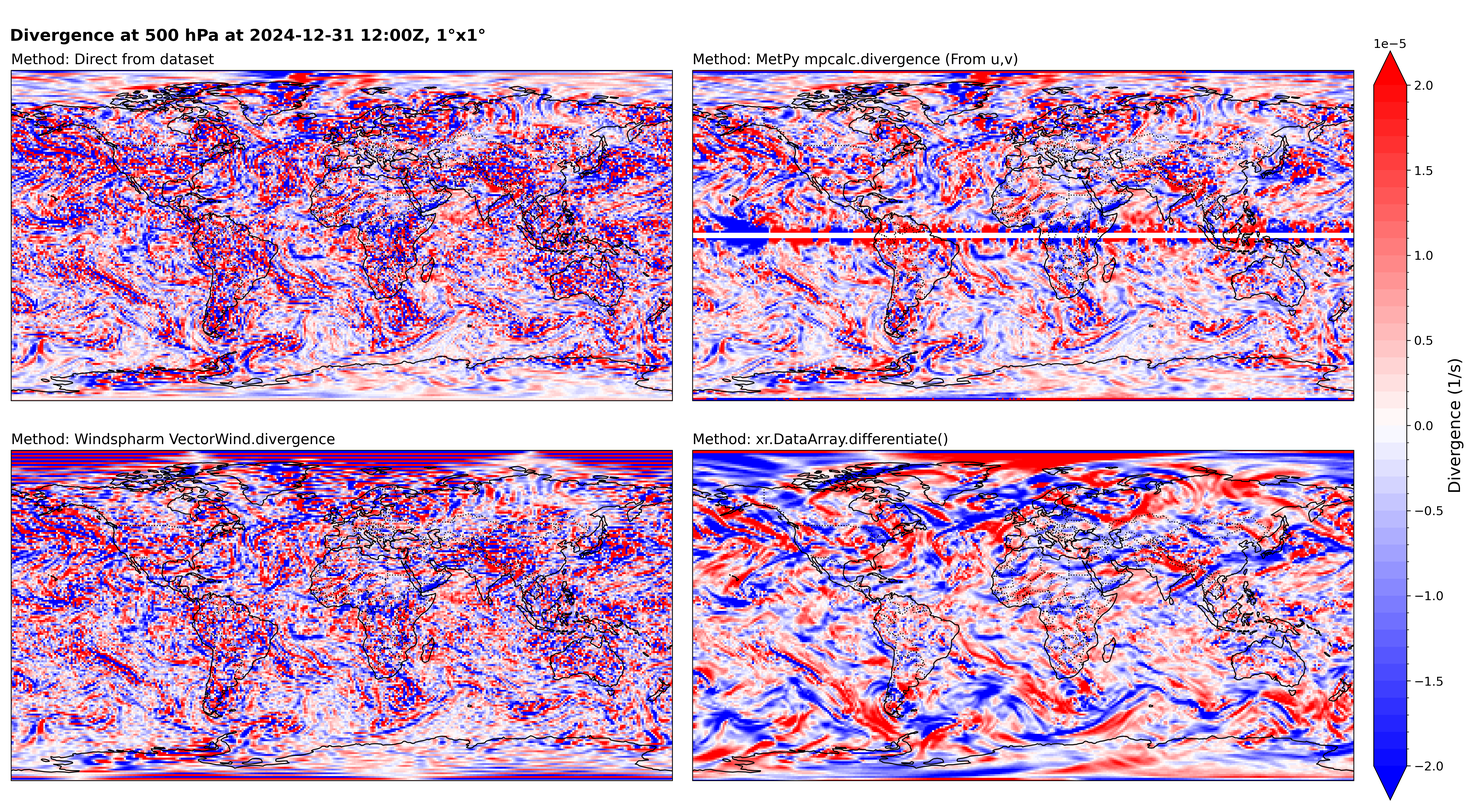
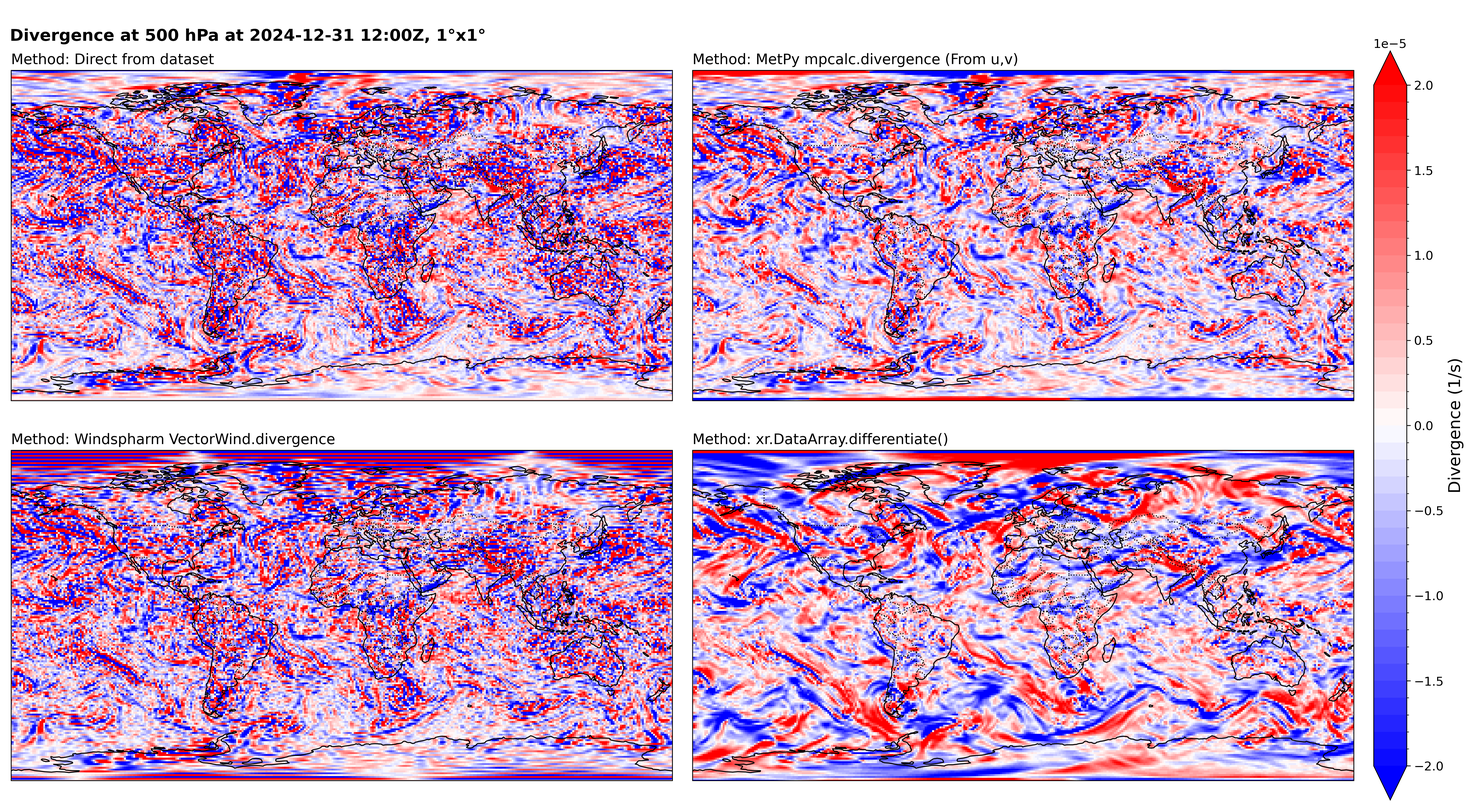
Site updated: 2026-02-25 00:44:54

diff --git a/2026/01/23/Divergence/index.html b/2026/01/23/Divergence/index.html
@@ -35,21 +35,23 @@
 
     <!-- OpenGraph -->
  
-    <meta name="description" content="I have seen two common algorithms for calculating divergence from wind. One is from Windspharm: 1234##Suppose u, v are variables for u wind and v wind and have only two dimensions (latitude and longit">
+    <meta name="description" content="TLDR Use metpy and the full wind to calculate I have seen two common algorithms for calculating divergence from wind. One is from Windspharm: 1234##Suppose u, v are variables for u wind and v wind and">
 <meta property="og:type" content="article">
 <meta property="og:title" content="Comparison of divergence algorithms">
 <meta property="og:url" content="http://wend3620.github.io/2026/01/23/Divergence/index.html">
 <meta property="og:site_name" content="Stratolog">
-<meta property="og:description" content="I have seen two common algorithms for calculating divergence from wind. One is from Windspharm: 1234##Suppose u, v are variables for u wind and v wind and have only two dimensions (latitude and longit">
+<meta property="og:description" content="TLDR Use metpy and the full wind to calculate I have seen two common algorithms for calculating divergence from wind. One is from Windspharm: 1234##Suppose u, v are variables for u wind and v wind and">
 <meta property="og:locale" content="en_US">
 <meta property="og:image" content="http://wend3620.github.io/2026/01/23/Divergence/quarter1.png">
 <meta property="og:image" content="http://wend3620.github.io/2026/01/23/Divergence/quarter_diff1.png">
+<meta property="og:image" content="http://wend3620.github.io/2026/01/23/Divergence/quarter2.png">
+<meta property="og:image" content="http://wend3620.github.io/2026/01/23/Divergence/quarter_diff2.png">
 <meta property="og:image" content="http://wend3620.github.io/2026/01/23/Divergence/div_avg_diff1.png">
 <meta property="og:image" content="http://wend3620.github.io/2026/01/23/Divergence/one1.png">
 <meta property="og:image" content="http://wend3620.github.io/2026/01/23/Divergence/one_diff1.png">
 <meta property="og:image" content="http://wend3620.github.io/2026/01/23/Divergence/div_avg_diff2.png">
 <meta property="article:published_time" content="2026-01-23T06:00:00.000Z">
-<meta property="article:modified_time" content="2026-01-30T15:54:23.695Z">
+<meta property="article:modified_time" content="2026-02-25T06:38:08.479Z">
 <meta property="article:author" content="Wend3620">
 <meta property="article:tag" content="Programming">
 <meta name="twitter:card" content="summary_large_image">
@@ -165,7 +167,8 @@
 <article class="post content-card">
     <div class="post__header"></div>
     <div class="post__content">
-        <p>I have seen two common algorithms for calculating divergence from wind.<br>
+        <h5 id="TLDR-Use-metpy-and-the-full-wind-to-calculate">TLDR Use metpy and the full wind to calculate</h5>
+<p>I have seen two common algorithms for calculating divergence from wind.<br>
 One is from <a target="_blank" rel="noopener" href="https://ajdawson.github.io/windspharm/">Windspharm</a>:</p>
 <figure class="highlight python"><table><tr><td class="gutter"><pre><span class="line">1</span><br><span class="line">2</span><br><span class="line">3</span><br><span class="line">4</span><br></pre></td><td class="code"><pre><span class="line"><span class="comment">##Suppose u, v are variables for u wind and v wind and have only two dimensions (latitude and longitude)</span></span><br><span class="line">w = VectorWind(u, v)</span><br><span class="line">divergence = w.divergence()</span><br><span class="line">divergence <span class="comment">#This is the variable for divergence</span></span><br></pre></td></tr></table></figure>
 <p>another is from <a target="_blank" rel="noopener" href="https://unidata.github.io/MetPy/latest/api/generated/metpy.calc.divergence.html">Metpy</a>.</p>
@@ -176,9 +179,13 @@ One is from <a target="_blank" rel="noopener" href="https://ajdawson.github.io/w
 <p>For the sake of making the results comparable to each other and have a good referee, I, again, use the ERA5 data from <a target="_blank" rel="noopener" href="https://cds.climate.copernicus.eu/datasets/reanalysis-era5-pressure-levels?tab=download">the data store</a>, and I am treating the divergence data from the dataset as the referee. I guess I have faith on the ERA5 maintainers… By the way, the divergence variable from the dataset should be used as dataset.d (instead of dataset.divergence, and I wonder if this is as a result of a laziness)…</p>
 <p>Here are some results:<br>
 <img src="/2026/01/23/Divergence/quarter1.png" alt="ERA5 - 0.25" title="ERA5 - 0.25"><br>
-It appears like they are all similar in the midlatitudes, but metpy seems to have extreme values in the tropics, and both windspharm and my native method have issues in the polar region.<br>
+It appears like they are all similar in the midlatitudes, but metpy seems to have extreme values in the tropics. Windspharm and my native method, respectively, have issues near the poles.<br>
 To make the difference more obvious, I made the plots below to compare the results from different methods. Please note that the upper-left one is the reference plot, so it is not a result of subtraction.<br>
 <img src="/2026/01/23/Divergence/quarter_diff1.png" alt="Difference of ERA5 - 0.25" title="Difference of ERA5 - 0.25"><br>
+However, if we change our resource for calculating the wind from the ageostrophic(divergent) wind to the full wind, the tropical issue is very much resolved.<br>
+<img src="/2026/01/23/Divergence/quarter2.png" alt="ERA5 - 0.25" title="Difference of ERA5 - 0.25"><br>
+<img src="/2026/01/23/Divergence/quarter_diff2.png" alt="Difference of ERA5 - 0.25" title="Difference of ERA5 - 0.25"><br>
+This means that the issue could be from calculation of ageostrophic wind in the tropics. This is not hard to underastand but unintuitive to me. In short, the low coriolis wind in the tropics causes wind flow not under geostrophic balance. The low geopotential gradient also leads to poor evaluation accuracy of geostrophic wind. These two issues combined causes the extreme values in the tropics.<br>
 It seems like the midlatitudes are vary similar across all 4 subplots, is that true?<br>
 To answer that, I drew another bar plot to compare the average difference in the midlatitudes.<br>
 <img src="/2026/01/23/Divergence/div_avg_diff1.png" alt="Bar plot 1 for ERA5 - 0.25" title="Bar plot 1 for ERA5 - 0.25"><br>
@@ -192,7 +199,7 @@ Wow! Windspharm is not outstanding this time! And we can easily see that all the
 
     </div>
      
-    <div class="post-footer__meta"><p>updated at 2026-01-30</p></div> 
+    <div class="post-footer__meta"><p>updated at 2026-02-25</p></div> 
     <div class="post-entry__tags"><a href="/tags/Programming/" class="post-tags__link button"># Programming</a></div> 
 </article>
 
